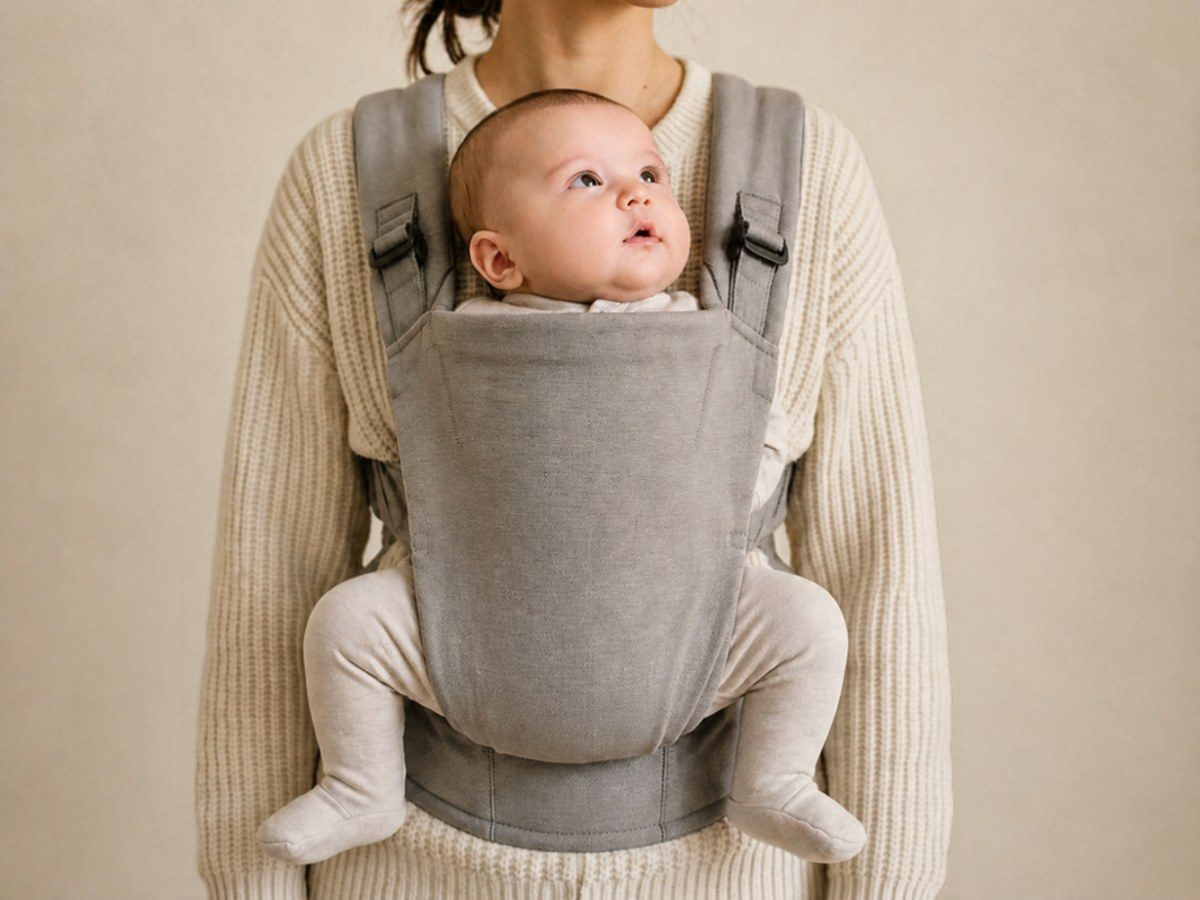
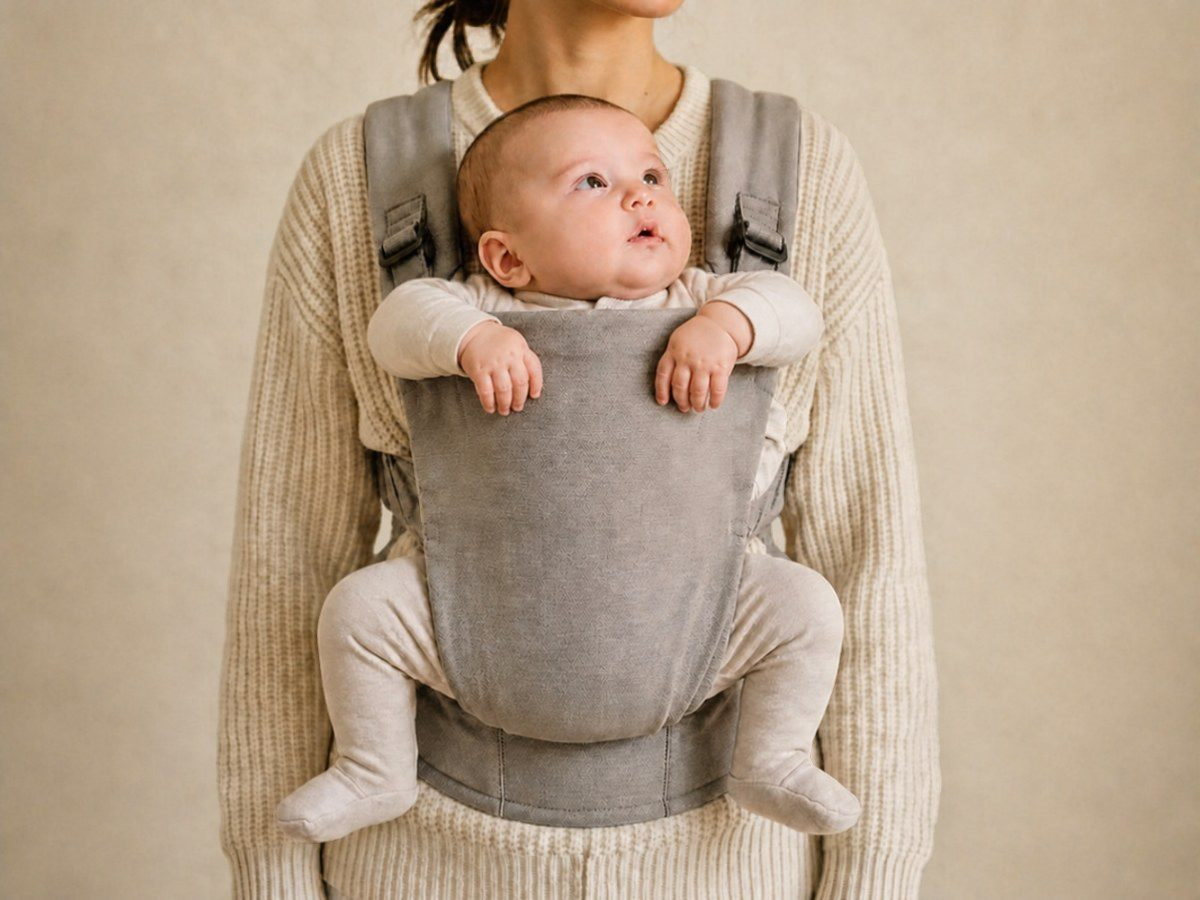
Outings v3 fixes: lighter One thing to know, earlier tile photos, smaller situation photos, carrier arms, lighter Road trips and Hot/Cold days, recentered bag photo, stay setup as plain rows
Claude-Session: https://claude.ai/code/session_01SSLJSF53bLf6Ps2r6oyH2M

diff --git a/js/out-and-about.js b/js/out-and-about.js
@@ -109,6 +109,7 @@
      window.__oaOld = true shows the earlier version. */
   const SHOW = () => !window.__oaOld;
   const PH = k => `assets/outings/${k}.jpg`;
+  const TILE_PHOTO_ALL = { errands: 'town', road: 'road', fly: 'fly', away: 'away', abroad: 'abroad', water: 'beach' };
   const TILE_PHOTO = { errands: 'town', road: 'road', fly: 'fly', away: 'away', abroad: 'abroad', water: 'beach' };
   const pinsHtml = list => (list || []).map(([label, x, y, side]) => `<span class="sf-pin oa-pin oa-pin-${side}" style="left:${x}%;top:${y}%"><i></i><span>${F(label)}</span></span>`).join('');
   // One photo with its tags, then the rows that say what to check.
@@ -458,7 +459,7 @@
      window.__oaOld = true still shows the earlier version. */
   const view3 = {};
   window.oaView = (id, k) => { view3[id] = k; const y = scrollY; render(); scrollTo(0, y); };
-  const TILE3 = { errands: 'town', road: 'car-head', fly: 'fly-tile', away: 'away-tile', abroad: 'abroad', water: 'beach-tile' };
+  const TILE3 = TILE_PHOTO_ALL;
   function page3(key, icon, title, lead, inner) {
     const c = PAL[key] || PAL.gear;
     return `<div class="quiet-category hub-page hub-detail oa3" data-overview="${CAT}" data-ss="1" data-oa-page="${key}" style="${yearTheme(CAT)};--ss-bg:${c[0]};--ss-ink:${c[1]}">${detailPageTop(CAT)}`
@@ -524,11 +525,10 @@
     }
 
     if (id === 'road') return page3('road', 'car', 'Road trips', 'Long drives go best in 2-hour stretches.',
-      timeline('Plan your drive', [['Leave', 'car', 'As a nap starts.'], ['After 2 hours', 'bottle', 'Stop to feed and change.'], ['After 4 hours', 'mat', eats() ? 'Stop for a snack and a stretch.' : 'Stop to feed and stretch.'], ['Then', 'home', 'A stop every 2 hours until you arrive.']], 'Leave as a nap starts, then stop every 2 hours to feed, change and stretch until you arrive.')
+      `<h2 class="hub-h2">${F('Plan your drive')}</h2><div class="oa3-stops">${[['car', 'Leave', 'As a nap starts'], ['bottle', '+2 hrs', 'Feed and change'], ['mat', '+4 hrs', eats() ? 'Snack and stretch' : 'Feed and stretch'], ['home', 'Arrive', 'Same rhythm']].map(([i, t, l]) => `<div><span>${hubArt(i, CAT)}</span><b>${F(t)}</b><small>${F(l)}</small></div>`).join('')}</div>`
       + one3('Only soft toys in the car. Hard ones can fly in a sudden stop.')
-      + rows([['heart', 'Crying while you drive', 'Pull over somewhere safe, then take {o} out to soothe or feed.'], ['clock', 'Driving on your own', 'Plan a few more stops. Check on {o} only when you’re parked.']], 'When things don’t go to plan')
-      + good([typeof profile !== 'undefined' && profile.early ? ['steth', 'Born early?', 'Ask your pediatrician how long rides can be.'] : null, ['moon', 'Naps on the road', 'Fine in the car seat while you drive. When you stop, move {o} to a crib or play yard.'], bf ? ['mouth', 'Nursing or pumping on the road', 'Park first. {S} {stay|stays} buckled in whenever the car is moving.'] : null])
-      + fold3('bag', 'Packing extras', fm ? plainRows([['bottle', 'One extra bottle', 'In case of traffic']]) : ''));
+      + plainRows([['heart', 'Crying while you drive', 'Pull over somewhere safe, then take {o} out.'], ['moon', 'Naps on the road', 'Fine in the car seat. Once you stop, move {o} to a crib or play yard.']])
+      + fold3('notepad', 'More for the road', plainRows([['clock', 'Driving on your own', 'Plan a few more stops. Check on {o} only when you’re parked.'], bf ? ['mouth', 'Nursing or pumping', 'Park first. {S} {stay|stays} buckled in whenever the car is moving.'] : null, typeof profile !== 'undefined' && profile.early ? ['steth', 'Born early?', 'Ask your pediatrician how long rides can be.'] : null, fm ? ['bottle', 'One extra bottle', 'In case of traffic'] : null])));
 
     if (id === 'fly') return page3('fly', 'plane', 'Flying', 'Most flight planning happens when you book.',
       phases('fly', [
@@ -550,8 +550,7 @@
             [['crib', 'A play yard, or a crib made after June 2011', 'Ask the hotel for one, or bring your own'], ['sofa', 'Never an adult bed or a couch', 'Even for a nap, even with you right there']], ['28%', '88%'])
           + fold3('bag', 'What to pack', plainRows([['sack', '{P} sleep sack', 'It smells like home'], ['home', 'The play yard’s own sheet', 'Only the one made for it'], ['star', 'A night light', 'For feeds in a dark, new room']]))],
         ['When you arrive', `<h2 class="hub-h2">${F('A room that’s safe for Maya')}</h2>` + fig3('away-room', 'A hotel room with a bare play yard, the blind cord tied up high and the bags up on a rack', AWAY_PINS)
-          + awayList(m)
-          + plainRows([['hand', 'Pets', 'Never leave {o} alone with a pet, even a gentle one.'], eats() ? ['bowl', 'Grandparents and treats', 'Share your food rules once, kindly, before the first meal.'] : null])],
+          + `<h2 class="hub-h2">${F('Set up your stay')}</h2>` + plainRows(awayItems(m).map(([t, sub, icon]) => [icon, t, sub]).concat([['hand', 'Pets', 'Never leave {o} alone with a pet, even a gentle one.'], eats() ? ['bowl', 'Grandparents and treats', 'Share your food rules once, kindly, before the first meal.'] : null]))],
         ['Settling in', plainRows([['moon', 'A rough first night', 'New places can unsettle sleep. A few off nights are common.'], ['heart', 'Well-meant advice', 'Share one rule kindly: on {p} back, in a bare crib.']])
           + `<button class="hub-link" onclick="openPage('chg:Sleep:d:away')">${F('Sleep in a new time zone')} ›</button>`]]));
 
@@ -588,15 +587,17 @@
           [PH('shade-before'), 'A stroller on a sunny path with a blanket draped over the front', 'Blanket over it', null],
           [PH('shade-after'), 'The same stroller in the shade of a tree, canopy forward, baby in a sun hat', 'Canopy and shade', null],
           [['towel', 'Never a blanket over the stroller', 'Even a thin one makes it hot inside']])
-        + plainRows([['clock', 'Go out early or late', 'When it’s cooler out'], m < 6 ? ['sun', 'Shade, not sunscreen', 'If there’s no shade, a little on {p} face is OK'] : ['sun', 'Sunscreen', 'SPF 30 or more, every 2 hours'], ['bottle', 'Keep {o} hydrated', !eats() ? 'With extra milk feeds' : 'With extra milk feeds and sips of water'], ['car', 'Cool the car first', 'Then touch the buckles: they can burn']])
-        + good([['thermo', 'How hot is too hot?', 'When the heat index is 90°F or more, keep outings short or stay in.'], m >= 2 ? ['leaf', 'Bug spray, from 2 months', 'Up to 30% DEET, or picaridin. Spray your hands, then rub it on {p} skin, not {p} hands.'] : ['leaf', 'Bug spray, from 2 months', 'Not yet. Until then, use netting over the stroller.'], ['fridge', 'Milk on hot days', 'In a cooler with ice packs, never in a hot car.']])
+        + one3('Go out early or late, when it’s cooler, and keep {o} in the shade.')
+        + plainRows([m < 6 ? ['sun', 'Shade, not sunscreen', 'If there’s no shade, a little on {p} face is OK'] : ['sun', 'Sunscreen', 'SPF 30 or more, every 2 hours'], ['bottle', 'Keep {o} hydrated', !eats() ? 'With extra milk feeds' : 'With extra milk feeds and sips of water'], ['car', 'Cool the car first', 'Then touch the buckles: they can burn']])
+        + fold3('notepad', 'More for hot days', plainRows([['thermo', 'How hot is too hot?', 'When the heat index is 90°F or more, keep outings short or stay in.'], m >= 2 ? ['leaf', 'Bug spray, from 2 months', 'Up to 30% DEET, or picaridin. Spray your hands, then rub it on {p} skin, not {p} hands.'] : ['leaf', 'Bug spray, from 2 months', 'Not yet. Until then, use netting over the stroller.'], ['fridge', 'Milk on hot days', 'In a cooler with ice packs, never in a hot car.']]))
         + calls(['Call your pediatrician', 'Any sunburn, or fewer wet diapers than usual.'], ['Call 911', 'Hot to the touch and floppy or hard to wake.']);
       const cold = beforeAfter(
           [PH('cold-before'), 'A baby in a rear-facing car seat wearing a puffy snowsuit, the straps loose on top of it', 'Puffy coat', ['Straps loose', 34, 56, 'r']],
           [PH('cold-after'), 'The same baby in thin fleece, straps snug, with a blanket tucked over the buckled straps', 'Blanket on top', null],
           [['shirt', 'Coat off before you buckle', 'A puffy coat squashes in a crash, leaving the straps too loose']])
-        + plainRows([['clock', 'Warm up the car first', 'Before you buckle {o} in'], ['shirt', 'One more layer on walks', 'Plus a hat and mittens'], ['hand', 'Check if {s’s} warm enough', 'Feel {p} chest. Cold hands are common']])
-        + good([['snow', 'Very cold or windy?', 'Keep walks short, or stay in.'], ['carrier', 'In a carrier', 'Your coat can go over you both, with {p} face uncovered.'], ['home', 'Once you’re somewhere warm', 'Take off {p} hat and extra layers, so {s} {don’t|doesn’t} overheat.']])
+        + one3('Warm up the car first, and feel {p} chest to check {s’s} warm enough. Cold hands are common.')
+        + plainRows([['shirt', 'One more layer on walks', 'Plus a hat and mittens'], ['carrier', 'In a carrier', 'Your coat can go over you both, with {p} face uncovered.']])
+        + fold3('notepad', 'More for cold days', plainRows([['snow', 'Very cold or windy?', 'Keep walks short, or stay in.'], ['home', 'Once you’re somewhere warm', 'Take off {p} hat and extra layers, so {s} {don’t|doesn’t} overheat.']]))
         + calls(['Call your pediatrician', 'Skin that’s pale, gray or blistered after being out in the cold.'], ['Call 911', 'Cold to the touch and floppy or hard to wake.']);
       return page3(view, view === 'hot' ? 'sun' : 'snow', 'Hot and cold days', view === 'hot' ? 'Babies heat up faster than you do.' : 'Babies lose heat faster than you do.', seg + (view === 'hot' ? hot : cold));
     }
@@ -629,7 +630,7 @@
     return null;
   }
   const AWAY_PINS = [['Bare play yard', 50, 52, 'b'], ['Bags up high', 84, 40, 'l']];
-  const CARRY_PINS = [['Face in view', 63, 30, 'r'], ['Chin off the chest', 52, 45, 'r'], ['Back supported', 34, 62, 'r'], ['Knees up in an M', 70, 78, 'l']];
+  const CARRY_PINS = [['Face in view', 64, 26, 'r'], ['Chin off the chest', 42, 40, 'l'], ['Back supported', 62, 60, 'r'], ['Knees up in an M', 72, 82, 'l']];
   const h3note = t => `<p class="oa-psteps-note">${F(t)}</p>`;
 
   window.oaWeather = function (k) { weatherView = k; const y = scrollY; render(); scrollTo(0, y); };

diff --git a/index.html b/index.html
@@ -14,7 +14,7 @@
 <link rel="stylesheet" href="css/health-show.css?v=1119d">
 <link rel="stylesheet" href="css/health-pages-v2.css?v=1119u">
 <link rel="stylesheet" href="css/safety-look.css?v=1118s">
-<link rel="stylesheet" href="css/outings-look.css?v=1120c">
+<link rel="stylesheet" href="css/outings-look.css?v=1120e">
 <link rel="stylesheet" href="css/childcare-look.css"><link rel="stylesheet" href="css/care-card.css">
 <link rel="stylesheet" href="css/care-v2.css?v=1117x">
 <link rel="stylesheet" href="css/year-ahead.css?v=1115c"><link rel="stylesheet" href="css/subpage-color.css"><style>#main .you-avatar.has-photo{overflow:hidden;padding:0}#main .you-avatar.has-photo img{width:100%;height:100%;object-fit:cover;display:block}</style><link rel="stylesheet" href="css/stages-nav.css"><link rel="stylesheet" href="css/home-cards.css"><link rel="stylesheet" href="css/home-glance.css?v=1117g"><link rel="stylesheet" href="css/one-app.css"><link rel="stylesheet" href="css/month-story.css"><link rel="stylesheet" href="css/guides-v2.css?v=1"><link rel="stylesheet" href="css/home-card-clean.css?v=3"><link rel="stylesheet" href="css/dev-photo.css?v=34"></head>
@@ -35,7 +35,7 @@
 <script src="js/hub-categories.js?v=1120h"></script>
   <script src="js/hub-pages.js?v=1120a"></script>
 <script src="js/stage-timeline.js?v=1113e"></script>
-<script src="js/out-and-about.js?v=1120c"></script>
+<script src="js/out-and-about.js?v=1120e"></script>
 <script src="js/care-card-render.js"></script><script src="js/childcare.js?v=1114x"></script>
 <script src="js/dev-play-art.js"></script>
 <script src="js/dev-scenes.js?v=1113e"></script>

diff --git a/css/outings-look.css b/css/outings-look.css
@@ -221,3 +221,17 @@
 #main .oa3-group { font-size: 12px; font-weight: 700; letter-spacing: .08em; text-transform: uppercase; color: var(--ss-ink); margin: 14px 2px 8px }
 #main .oa3-group:first-of-type { margin-top: 4px }
 #main .oa3 .oa-steps { margin-top: 2px }
+/* Nov 20 fixes: lighter One thing to know, smaller situation photos, road trip stops. */
+#main .oa3-one b { font-weight: 500 }
+#main .oa3 .oa3-fig .oa-photo { aspect-ratio: 16 / 9 }
+#main .oa3 .oa-ba img { aspect-ratio: 1 / 1 }
+#main .oa3-stops { display: grid; grid-template-columns: repeat(4, 1fr); gap: 6px; background: var(--white, #fffefb); border: 1px solid var(--line, #e1e5d9); border-radius: 18px; padding: 14px 8px 12px; margin: 0 0 16px; position: relative }
+#main .oa3-stops::before { content: ""; position: absolute; left: 12.5%; right: 12.5%; top: 33px; height: 2px; background: var(--ss-bg) }
+#main .oa3-stops div { text-align: center; position: relative }
+#main .oa3-stops span { width: 40px; height: 40px; border-radius: 50%; background: var(--ss-bg); display: grid; place-items: center; margin: 0 auto 6px }
+#main .oa3-stops span svg { width: 22px; height: 22px }
+#main .oa3-stops span svg, #main .oa3-stops span svg [stroke]:not([stroke="none"]) { stroke: var(--ss-ink) }
+#main .oa3-stops b { display: block; font-size: 13.5px; font-weight: 700; color: var(--ss-ink) }
+#main .oa3-stops small { display: block; font-size: 12px; line-height: 1.3; color: #5c5361; margin-top: 2px }
+#main .oa3[data-oa-page="gear"] .oa3-fig .oa-photo { aspect-ratio: 4 / 3 }
+#main .oa3 .oa-flatlay img { aspect-ratio: auto }
